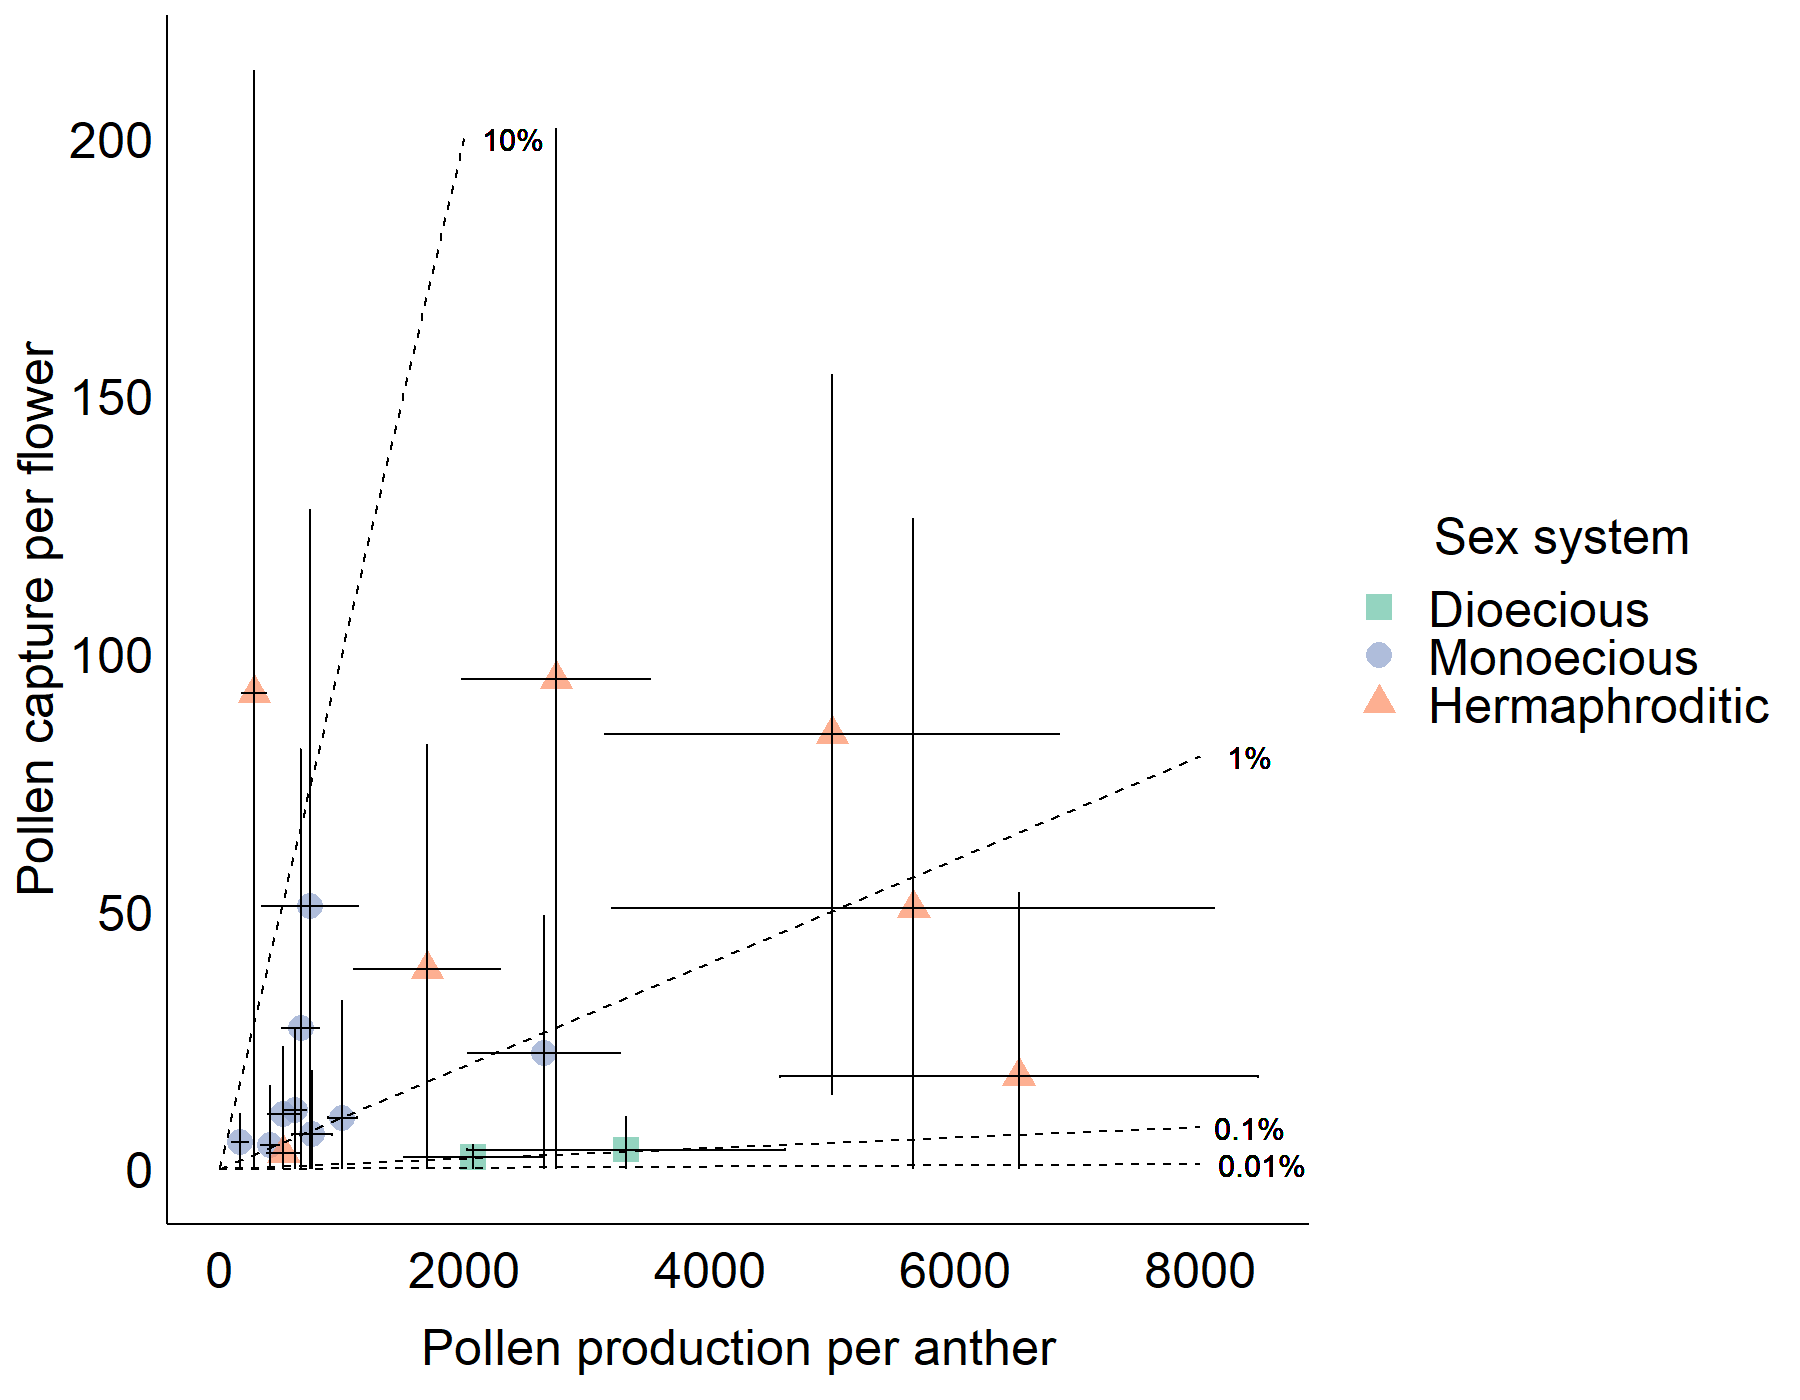
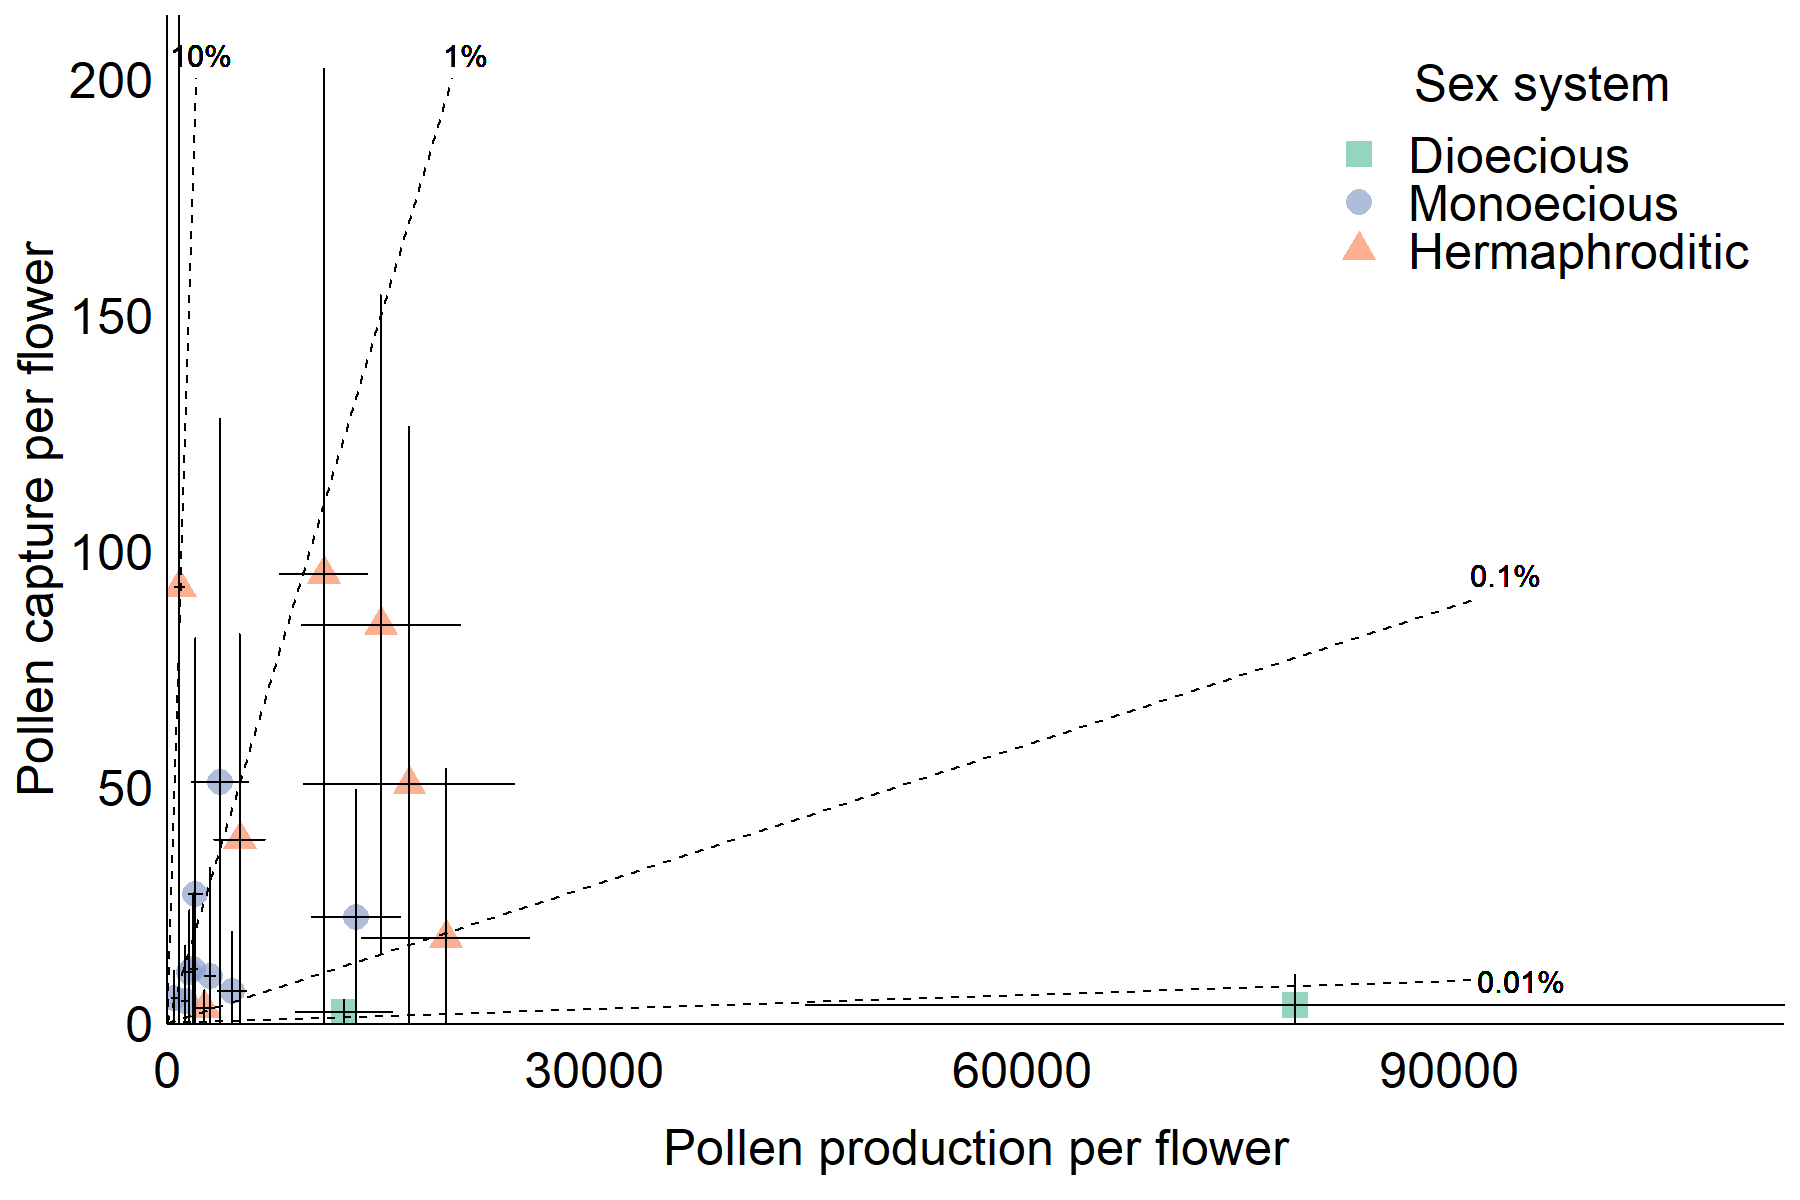
change PTE to per-flower pollen prod not per anther

diff --git a/Q3_pollination-efficiency.md b/Q3_pollination-efficiency.md
@@ -42,6 +42,14 @@ sizenum.dat <- read.csv("processed-data/size-prod-norep.csv", stringsAsFactors =
 ```
 
 ``` r
+# Get estimate of pollen production per flower
+# first make sure all species have values for anthers per flower
+anthsum <- sizenum.dat %>% group_by(Species) %>% 
+  summarize(m_anth_flw = mean(Anth_per_flw, na.rm=T))
+sizenum.dat <- sizenum.dat %>%
+  mutate(Avg_pol_flw = Avg_pol_anth*Anth_per_flw)
+
+
 # The stigma and anther data is at the per-individual level right now - summarize it so that it's at the per-species level
 stig_spp <- pc.dat %>% 
   group_by(Species, Sex_sys, source) %>%
@@ -61,7 +69,11 @@ prod_spp <- sizenum.dat %>%
   summarize(Avg_prod_anth_sp = mean(Avg_pol_anth, na.rm=T),
             Sd_prod_anth_sp = sd(Avg_pol_anth, na.rm=T),
             n_prod_anth = n(),
-            SE_prod_anth_sp = Sd_prod_anth_sp/n_prod_anth)
+            SE_prod_anth_sp = Sd_prod_anth_sp/n_prod_anth,
+            Avg_prod_flw_sp = mean(Avg_pol_flw, na.rm=T),
+            Sd_prod_flw_sp = sd(Avg_pol_flw, na.rm=T),
+            n_prod_flw = n(),
+            SE_prod_flw_sp = Sd_prod_flw_sp/n_prod_flw)
 ```
 
     ## `summarise()` has grouped output by 'Species', 'Sex_sys'. You can override
@@ -97,14 +109,15 @@ pdat$Species <- factor(pdat$Species, levels = unique(pdat$Species), ordered = T)
 ``` r
 ## Plot pollen capture vs pollen production:
 pdat %>% 
-  ggplot(aes(x=Avg_prod_anth_sp, y=Avg_stig_sp, shape=Sex_sys) ) + 
+  # filter(Species != "Thalictrum dioicum") %>% 
+  ggplot(aes(x=Avg_prod_flw_sp, y=Avg_stig_sp, shape=Sex_sys) ) + 
   geom_point(size=4, alpha=0.7, aes(color=Sex_sys)) + 
   geom_errorbar(aes(ymin = pmax(0,Avg_stig_sp - Sd_stig_sp), ymax = Avg_stig_sp + Sd_stig_sp), color="black") + 
-  geom_errorbarh(aes(xmin = Avg_prod_anth_sp - Sd_prod_anth_sp, xmax = Avg_prod_anth_sp + Sd_prod_anth_sp), color="black") + 
+  geom_errorbarh(aes(xmin = Avg_prod_flw_sp - Sd_prod_flw_sp, xmax = Avg_prod_flw_sp + Sd_prod_flw_sp), color="black") + 
   
   # Axes
-  scale_x_continuous(name = expression("Pollen production per anther"), na.value=0) + 
-  scale_y_continuous(name = "Pollen capture per flower", na.value = 0) + 
+  scale_x_continuous(name = expression("Pollen production per flower"), na.value=0, expand = c(0, 0)) + 
+  scale_y_continuous(name = "Pollen capture per flower", na.value = 0, expand = c(0, 0.2)) + 
   guides(shape=guide_legend(title="Sex system"),
          color=guide_legend(title="Sex system")) + 
   scale_shape_manual(values = c(15, 16, 17),
@@ -112,30 +125,65 @@ pdat %>%
   scale_color_manual(labels=c("Dioecious", "Monoecious", "Hermaphroditic"),
                      values=c("#66C2A5","#8DA0CB","#FC8D62")) + 
   # Guide lines
-  geom_segment(aes(x=0, xend = 8000, y=0, yend = 0.0001*8000), colour="black", linetype = "dashed") + 
-  geom_segment(aes(x=0, xend = 8000, y=0, yend = 0.001*8000), colour="black", linetype = "dashed") + 
-  geom_segment(aes(x=0, xend = 8000, y=0, yend = 0.01*8000), colour="black", linetype = "dashed") + 
+  geom_segment(aes(x=0, xend = 90000+2000, y=0, yend = 0.0001*90000), colour="black", linetype = "dashed") + 
+  geom_segment(aes(x=0, xend = 90000+2000, y=0, yend = 0.001*90000), colour="black", linetype = "dashed") + 
+  geom_segment(aes(x=0, xend = 20000, y=0, yend = 0.01*20000), colour="black", linetype = "dashed") + 
   geom_segment(aes(x=0, xend = 2000, y=0, yend = 0.1*2000), colour="black", linetype = "dashed") +
-  geom_text(x=8000+500, y=0.0001*8000, label = "0.01%", colour="black") + 
-  geom_text(x=8000+400, y=0.001*8000, label = "0.1%", colour="black") +
-  geom_text(x=8000+400, y=0.01*8000, label = "1%", colour="black") +
-  geom_text(x=2000+400, y=0.1*2000, label = "10%", colour="black") +
+  geom_text(x=90000+5000, y=0.0001*90000, label = "0.01%", colour="black") + 
+  geom_text(x=90000+4000, y=0.001*90000+5, label = "0.1%", colour="black") +
+  geom_text(x=20000+1000, y=0.01*20000+5, label = "1%", colour="black") +
+  geom_text(x=2000+400, y=0.1*2000+5, label = "10%", colour="black") +
   
-  theme_cs(font="sans", fontsize=18)
+  theme_cs(font="sans", fontsize=18) + 
+  theme(legend.position = c(0.85,0.85))
 ```
 
 ![](Q3_pollination-efficiency_files/figure-gfm/plot%20efficiency-1.png)<!-- -->
 
 ``` r
+## Plot pollen capture vs pollen production:
+pdat %>% 
+  filter(Species != "Thalictrum dioicum") %>% 
+  ggplot(aes(x=Avg_prod_flw_sp, y=Avg_stig_sp, shape=Sex_sys) ) + 
+  geom_point(size=4, alpha=0.7, aes(color=Sex_sys)) + 
+  geom_errorbar(aes(ymin = pmax(0,Avg_stig_sp - Sd_stig_sp), ymax = Avg_stig_sp + Sd_stig_sp), color="black") + 
+  geom_errorbarh(aes(xmin = Avg_prod_flw_sp - Sd_prod_flw_sp, xmax = Avg_prod_flw_sp + Sd_prod_flw_sp), color="black") + 
+  
+  # Axes
+  scale_x_continuous(name = expression("Pollen production per flower"), na.value=0, expand = c(0, 0)) + 
+  scale_y_continuous(name = "Pollen capture per flower", na.value = 0, expand = c(0, 0.2)) + 
+  guides(shape=guide_legend(title="Sex system"),
+         color=guide_legend(title="Sex system")) + 
+  scale_shape_manual(values = c(15, 16, 17),
+                     labels=c("Dioecious", "Monoecious", "Hermaphroditic")) + 
+  scale_color_manual(labels=c("Dioecious", "Monoecious", "Hermaphroditic"),
+                     values=c("#66C2A5","#8DA0CB","#FC8D62")) + 
+  # Guide lines
+  geom_segment(aes(x=0, xend = 20000+2000, y=0, yend = 0.0001*20000), colour="black", linetype = "dashed") + 
+  geom_segment(aes(x=0, xend = 20000+2000, y=0, yend = 0.001*20000), colour="black", linetype = "dashed") + 
+  geom_segment(aes(x=0, xend = 15000, y=0, yend = 0.01*15000), colour="black", linetype = "dashed") + 
+  geom_segment(aes(x=0, xend = 2000, y=0, yend = 0.1*2000), colour="black", linetype = "dashed") +
+  geom_text(x=20000+4000, y=0.0001*20000+2, label = "0.01%", colour="black") + 
+  geom_text(x=20000+3000, y=0.001*20000+5, label = "0.1%", colour="black") +
+  geom_text(x=15000+1000, y=0.01*15000+5, label = "1%", colour="black") +
+  geom_text(x=2000+400, y=0.1*2000+5, label = "10%", colour="black") +
+  
+  theme_cs(font="sans", fontsize=18) + 
+    theme(legend.position = c(0.85,0.7))
+```
+
+![](Q3_pollination-efficiency_files/figure-gfm/plot%20efficiency%20wo%20T%20dioicum-1.png)<!-- -->
+
+``` r
 ## A plot with labels, for reference (zoom into saved file to see labels):
 pdat %>% 
-  ggplot(aes(x=Avg_prod_anth_sp, y=Avg_stig_sp, shape=Sex_sys, color=Sex_sys, label=Species) ) + 
+  ggplot(aes(x=Avg_prod_flw_sp, y=Avg_stig_sp, shape=Sex_sys, color=Sex_sys, label=Species) ) + 
   geom_point(size=3, alpha=0.8) + 
   geom_errorbar(aes(ymin = pmax(0,Avg_stig_sp - Sd_stig_sp), ymax = Avg_stig_sp + Sd_stig_sp), color="black") + 
-  geom_errorbarh(aes(xmin = Avg_prod_anth_sp - Sd_prod_anth_sp, xmax = Avg_prod_anth_sp + Sd_prod_anth_sp), color="black") + 
+  geom_errorbarh(aes(xmin = Avg_prod_flw_sp - Sd_prod_flw_sp, xmax = Avg_prod_flw_sp + Sd_prod_flw_sp), color="black") + 
   geom_label(size=2) + 
   # Axes
-  scale_x_continuous(name = expression("Pollen production per anther"), na.value=0) + 
+  scale_x_continuous(name = expression("Pollen production per flower"), na.value=0) + 
   scale_y_continuous(name = "Pollen capture per flower", na.value = 0) + 
   guides(shape=guide_legend(title="Sex system"), color=guide_legend(title="Sex system")) + 
   scale_shape_manual(values = c(15, 16, 17),
@@ -154,9 +202,9 @@ pdat %>%
 eff_tab <- pdat %>% dplyr::group_by(Sex_sys, Species) %>% 
   dplyr::summarize(Avg_stig_sp = Avg_stig_sp,
             Sd_stig_sp = Sd_stig_sp,
-            Avg_prod_anth_sp = Avg_prod_anth_sp,
-            Sd_prod_anth_sp = Sd_prod_anth_sp,
-            polleff = 100 * Avg_stig_sp/Avg_prod_anth_sp)
+            Avg_prod_flw_sp = Avg_prod_flw_sp,
+            Sd_prod_flw_sp = Sd_prod_flw_sp,
+            polleff = Avg_stig_sp/Avg_prod_flw_sp)
 ```
 
     ## `summarise()` has grouped output by 'Sex_sys'. You can override using the
@@ -168,46 +216,46 @@ print(eff_tab, width = 90)
 
     ## # A tibble: 18 × 7
     ## # Groups:   Sex_sys [3]
-    ##    Sex_sys        Species                 Avg_stig_sp Sd_stig_sp
-    ##    <fct>          <ord>                         <dbl>      <dbl>
-    ##  1 dioecious      Rumex acetosella               2.26       2.43
-    ##  2 dioecious      Thalictrum dioicum             3.69       6.48
-    ##  3 monoecious     Amaranthus retroflexus        22.4       26.9 
-    ##  4 monoecious     Ambrosia artemisiifolia       51.0       76.9 
-    ##  5 monoecious     Carex communis                11.3       16.1 
-    ##  6 monoecious     Carex hirtifolia              27.3       54.2 
-    ##  7 monoecious     Carex pedunculata             10.6       13.2 
-    ##  8 monoecious     Carex plantaginea              9.92      22.8 
-    ##  9 monoecious     Carex stipata                  4.66      11.6 
-    ## 10 monoecious     Rumex crispus                  6.63      12.5 
-    ## 11 monoecious     Scirpus microcarpus            5.16       5.69
-    ## 12 hermaphroditic Bromus inermis                50.6       75.7 
-    ## 13 hermaphroditic Chenopodium album              3.09       3.73
-    ## 14 hermaphroditic Elymus repens                 84.3       69.9 
-    ## 15 hermaphroditic Festuca campestris            17.9       35.7 
-    ## 16 hermaphroditic Phleum pratense               38.8       43.6 
-    ## 17 hermaphroditic Plantago lanceolata           95.0      107.  
-    ## 18 hermaphroditic Schizachne purpurascens       92.3      121.  
-    ##    Avg_prod_anth_sp Sd_prod_anth_sp polleff
-    ##               <dbl>           <dbl>   <dbl>
-    ##  1            2070.           564.    0.109
-    ##  2            3320.          1295.    0.111
-    ##  3            2648.           618.    0.846
-    ##  4             741.           391.    6.88 
-    ##  5             618.            88.5   1.83 
-    ##  6             665.           152.    4.11 
-    ##  7             525.           126.    2.03 
-    ##  8            1006.           115.    0.985
-    ##  9             415.            73.2   1.12 
-    ## 10             758.           166.    0.875
-    ## 11             169.            63.7   3.05 
-    ## 12            5659.          2452.    0.894
-    ## 13             525.           137.    0.587
-    ## 14            4995.          1848.    1.69 
-    ## 15            6518.          1947.    0.274
-    ## 16            1697.           595.    2.29 
-    ## 17            2749.           768.    3.46 
-    ## 18             287.            99.4  32.1
+    ##    Sex_sys        Species                 Avg_stig_sp Sd_stig_sp Avg_prod_flw_sp
+    ##    <fct>          <ord>                         <dbl>      <dbl>           <dbl>
+    ##  1 dioecious      Rumex acetosella               2.26       2.43          12423.
+    ##  2 dioecious      Thalictrum dioicum             3.69       6.48          79162.
+    ##  3 monoecious     Amaranthus retroflexus        22.4       26.9           13242.
+    ##  4 monoecious     Ambrosia artemisiifolia       51.0       76.9            3707.
+    ##  5 monoecious     Carex communis                11.3       16.1            1854.
+    ##  6 monoecious     Carex hirtifolia              27.3       54.2            1994.
+    ##  7 monoecious     Carex pedunculata             10.6       13.2            1574.
+    ##  8 monoecious     Carex plantaginea              9.92      22.8            3019.
+    ##  9 monoecious     Carex stipata                  4.66      11.6            1246.
+    ## 10 monoecious     Rumex crispus                  6.63      12.5            4545.
+    ## 11 monoecious     Scirpus microcarpus            5.16       5.69            507.
+    ## 12 hermaphroditic Bromus inermis                50.6       75.7           16976.
+    ## 13 hermaphroditic Chenopodium album              3.09       3.73           2627.
+    ## 14 hermaphroditic Elymus repens                 84.3       69.9           14986.
+    ## 15 hermaphroditic Festuca campestris            17.9       35.7           19554.
+    ## 16 hermaphroditic Phleum pratense               38.8       43.6            5090.
+    ## 17 hermaphroditic Plantago lanceolata           95.0      107.            10995.
+    ## 18 hermaphroditic Schizachne purpurascens       92.3      121.              861.
+    ##    Sd_prod_flw_sp   polleff
+    ##             <dbl>     <dbl>
+    ##  1          3386. 0.000182 
+    ##  2         34338. 0.0000467
+    ##  3          3092. 0.00169  
+    ##  4          1955. 0.0138   
+    ##  5           265. 0.00609  
+    ##  6           456. 0.0137   
+    ##  7           378. 0.00675  
+    ##  8           345. 0.00328  
+    ##  9           220. 0.00374  
+    ## 10           997. 0.00146  
+    ## 11           191. 0.0102   
+    ## 12          7355. 0.00298  
+    ## 13           687. 0.00117  
+    ## 14          5545. 0.00562  
+    ## 15          5841. 0.000915 
+    ## 16          1786. 0.00762  
+    ## 17          3073. 0.00864  
+    ## 18           298. 0.107
 
 ``` r
 write.csv(eff_tab, "processed-data/efficiency-table.csv", row.names = F)
